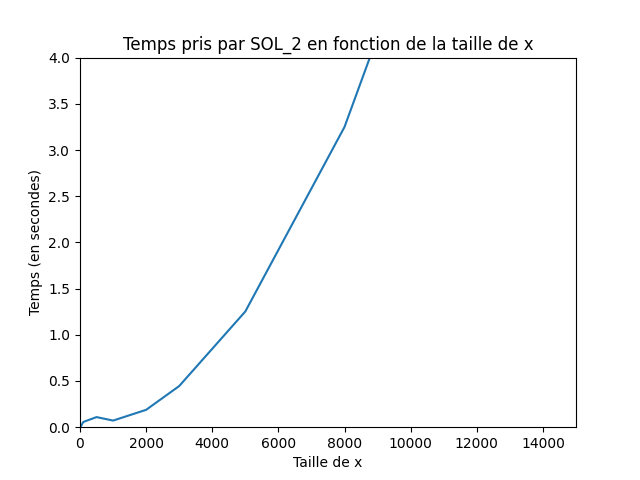
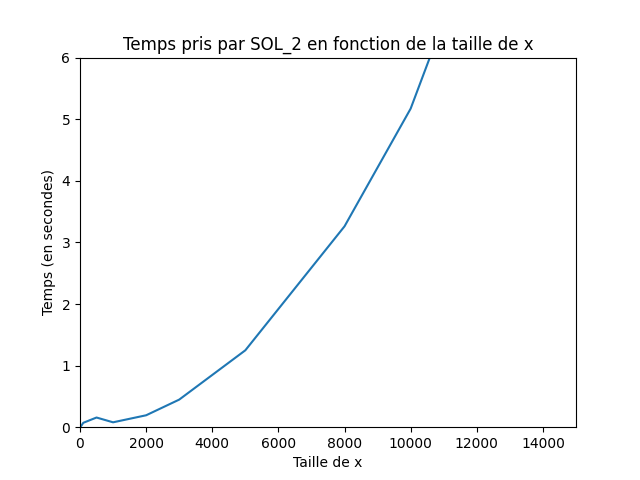
tests refaits encore

diff --git a/tests_sol_2.py b/tests_sol_2.py
@@ -187,14 +187,14 @@ elapsed.append((end - start))
 print("ok")
 
 #100000_3
-#x,n,y,m = ouvrir_fichier("Instances_genome/Inst_0100000_3.adn")
+x,n,y,m = ouvrir_fichier("Instances_genome/Inst_0100000_3.adn")
 
-#start = time.time()
-#SOL_2(x,y)
-#end = time.time()
+start = time.time()
+SOL_2(x,y)
+end = time.time()
 
-#taille.append(n)
-#elapsed.append((end - start))
+taille.append(n)
+elapsed.append((end - start))
 
 plt.plot(taille, elapsed)
 plt.title("Temps pris par SOL_2 en fonction de la taille de x")
@@ -203,7 +203,7 @@ plt.ylabel("Temps (en secondes)")
 plt.savefig("images/SOL2.png")
 
 plt.xlim(0,15001)
-plt.ylim(0,4)
+plt.ylim(0,6)
 plt.savefig("images/SOL2ZOOM.png")
 
 print("tests_sol_2 done")

diff --git a/tests_dist_2.py b/tests_dist_2.py
@@ -203,7 +203,7 @@ plt.ylabel("Temps (en secondes)")
 plt.savefig("images/DIST2.png")
 
 plt.xlim(0,15001)
-plt.ylim(0,4)
+plt.ylim(0,6)
 plt.savefig("images/DIST2ZOOM.png")
 
 print("tests_dist_2 done")
